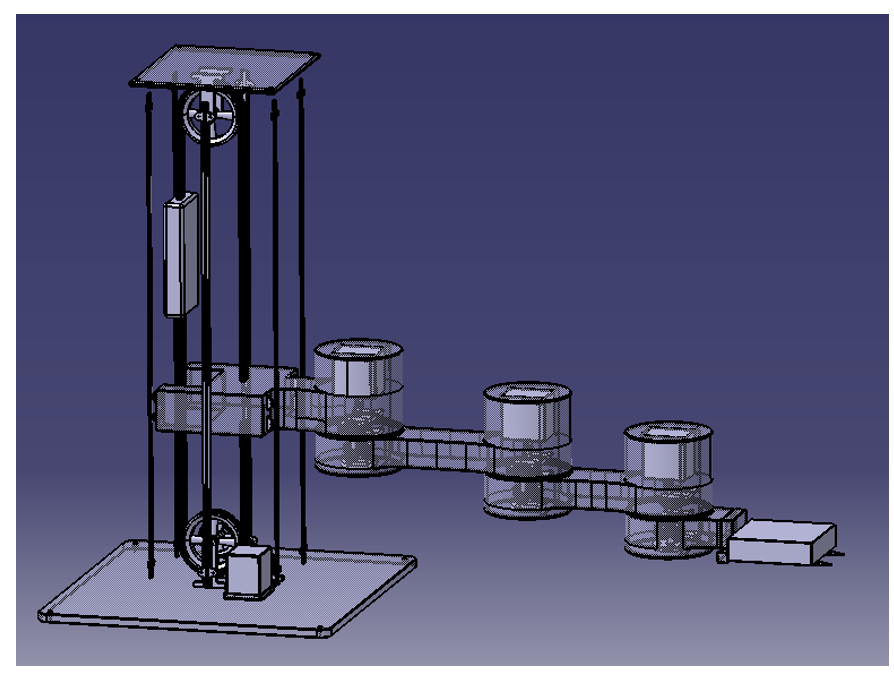
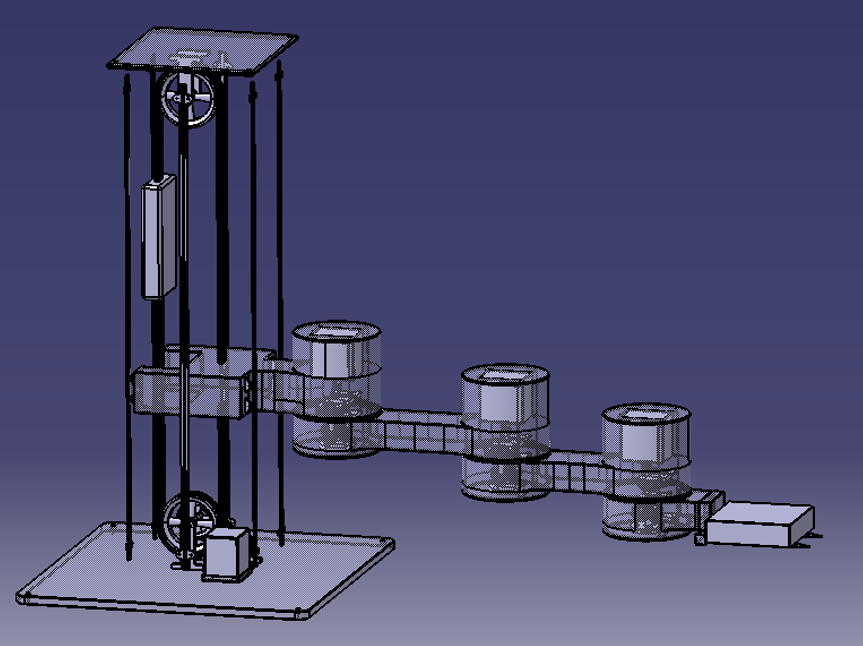
Updated profile pic layout

Changed region(s): [[0.0, 0.0, 1.0, 1.0]]

diff --git a/_projects/industrial-robotics.md b/_projects/industrial-robotics.md
@@ -3,7 +3,7 @@ layout: default
 title: "4DOF Industrial Robotics Design"
 description: "Mechanical design, trajectory optimization, and dynamic modeling of a 4DOF industrial manipulator using MATLAB and Simscape."
 date: "03-2025 to 07-2025"
-categories: [Robotics, MATLAB, Simscape]
+categories: [Robotics, MATLAB, CAD]
 featured: true
 featured_image: "/assets/images/projects/robotics/preview.png"
 ---